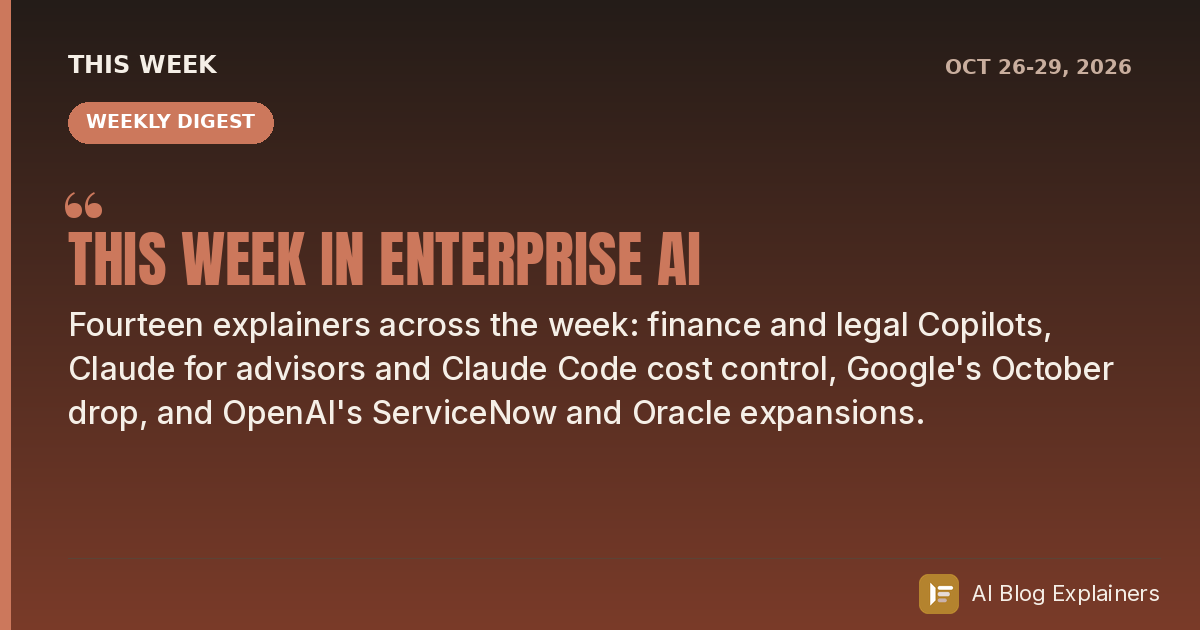
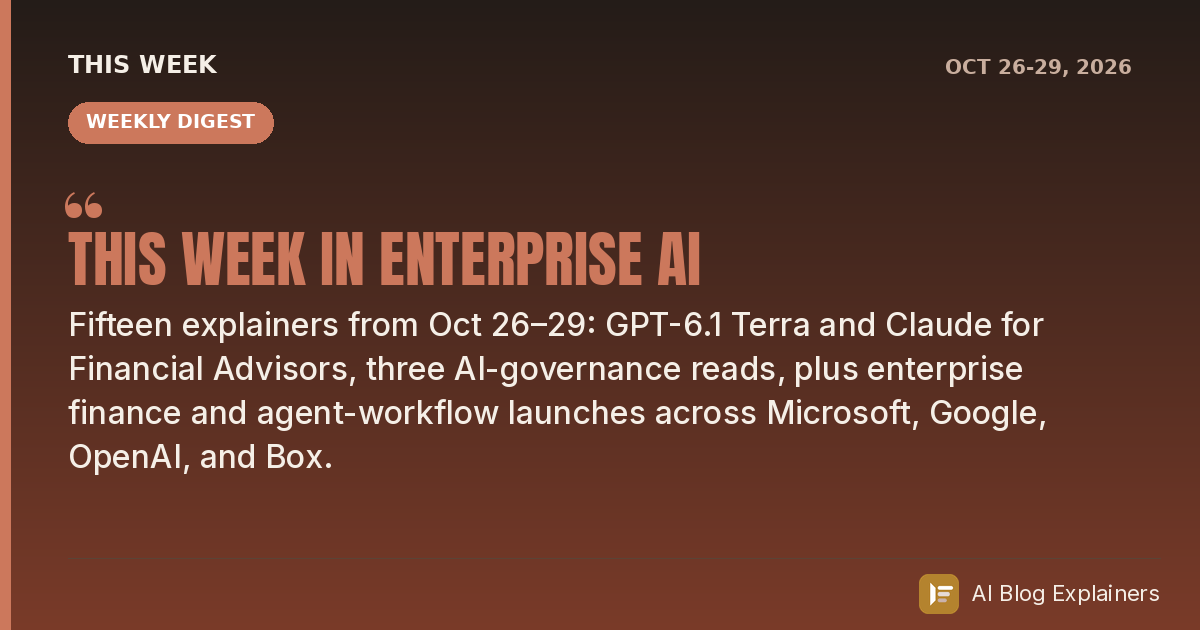
Add explainer + share card: When Attackers Adopt AI (Microsoft Security, AI adoption in threat tradecraft)

Changed region(s): [[0.0617, 0.4825, 0.925, 0.6032], [0.0617, 0.6333, 0.8633, 0.754]]

diff --git a/explainers/tracking-ai-adoption-in-north-korean-threat-actor-tradecraft.html b/explainers/tracking-ai-adoption-in-north-korean-threat-actor-tradecraft.html
@@ -1,0 +1,317 @@
+<!DOCTYPE html>
+<html lang="en">
+<head>
+<meta charset="UTF-8">
+<meta name="viewport" content="width=device-width, initial-scale=1.0">
+<link rel="icon" href="../favicon.svg" type="image/svg+xml">
+<meta property="og:type" content="article">
+<meta property="og:title" content="When Attackers Adopt AI: A Field Report on Nation-State Tradecraft">
+<meta property="og:description" content="Microsoft Threat Intelligence maps how North Korean actors use AI as a force multiplier — faster lures, fake hiring personas, assisted code — while operations stay human-directed.">
+<meta property="og:url" content="https://snigdhadasgupta.github.io/ai-blog-explainers/explainers/tracking-ai-adoption-in-north-korean-threat-actor-tradecraft.html">
+<meta property="og:image" content="https://snigdhadasgupta.github.io/ai-blog-explainers/share-cards/tracking-ai-adoption-in-north-korean-threat-actor-tradecraft.png">
+<meta property="og:image:secure_url" content="https://snigdhadasgupta.github.io/ai-blog-explainers/share-cards/tracking-ai-adoption-in-north-korean-threat-actor-tradecraft.png">
+<meta property="og:image:type" content="image/png">
+<meta property="og:image:width" content="1200">
+<meta property="og:image:height" content="630">
+<meta name="twitter:card" content="summary_large_image">
+<meta name="twitter:title" content="When Attackers Adopt AI: A Field Report on Nation-State Tradecraft">
+<meta name="twitter:image" content="https://snigdhadasgupta.github.io/ai-blog-explainers/share-cards/tracking-ai-adoption-in-north-korean-threat-actor-tradecraft.png">
+<title>AI Adoption in Attacker Tradecraft — Explainer</title>
+<style>
+  :root{
+    --clay:#CC785C;--clay-dark:#A8543C;--clay-deep:#7A3B29;--ink:#1F1B18;--slate:#3D3733;--stone:#6B6259;--cream:#F5F2EC;--paper:#FBFAF6;--sand:#EDE7DB;--line:#DED6C7;
+    --accent:#0E7490;--accent-deep:#0A5567;
+    --serif:'Georgia','Times New Roman',serif;--sans:-apple-system,'Segoe UI',Helvetica,Arial,sans-serif;--mono:'SFMono-Regular','Consolas','Menlo',monospace;
+  }
+  *{box-sizing:border-box;margin:0;padding:0;}
+  body{background:var(--cream);color:var(--ink);font-family:var(--sans);line-height:1.6;-webkit-font-smoothing:antialiased;}
+  .wrap{max-width:1080px;margin:0 auto;padding:0 24px;}
+  .topbar{border-top:5px solid var(--clay);background:var(--paper);border-bottom:1px solid var(--line);}
+  .topbar .wrap{display:flex;align-items:center;justify-content:space-between;padding:16px 24px;}
+  .brand{display:flex;align-items:center;gap:12px;font-weight:700;letter-spacing:.02em;}
+  .brand .dot{width:26px;height:26px;border-radius:6px;background:var(--clay);display:inline-flex;align-items:center;justify-content:center;color:#fff;font-family:var(--serif);font-size:16px;}
+  .srcbadge{font-size:11px;letter-spacing:.14em;text-transform:uppercase;font-weight:700;color:#fff;background:var(--accent);padding:5px 12px;border-radius:100px;}
+  .hero{background:linear-gradient(160deg,#161E22 0%,#0E4256 55%,var(--accent-deep) 100%);color:#EAF4F7;padding:46px 0 40px;position:relative;overflow:hidden;}
+  .herobg{position:absolute;top:0;right:-4%;height:100%;width:42%;pointer-events:none;opacity:.85;}
+  .herobg svg{width:100%;height:100%;display:block;}
+  .hnode{fill:var(--accent);}
+  .hero .wrap{max-width:900px;position:relative;z-index:1;}
+  .hero .tag{display:inline-block;font-size:12px;letter-spacing:.16em;text-transform:uppercase;color:#A9DBEA;border:1px solid rgba(169,219,234,.4);padding:5px 12px;border-radius:100px;margin-bottom:22px;}
+  .hero h1{font-family:var(--serif);font-size:clamp(30px,4.6vw,50px);line-height:1.09;font-weight:700;margin-bottom:18px;}
+  .hero p.lede{font-size:clamp(17px,2.2vw,21px);color:#DCEEF3;max-width:720px;}
+  .meta{display:flex;flex-wrap:wrap;gap:24px;margin-top:24px;padding-top:18px;border-top:1px solid rgba(234,244,247,.18);font-size:13px;}
+  .meta .m span{display:block;color:#8FCADC;letter-spacing:.12em;text-transform:uppercase;font-size:10.5px;margin-bottom:3px;}
+  .meta .m strong{font-weight:600;color:#EFF8FB;font-size:14px;}
+  section{padding:32px 0;border-bottom:1px solid var(--line);}
+  .eyebrow{font-size:12px;letter-spacing:.16em;text-transform:uppercase;color:var(--accent-deep);font-weight:700;margin-bottom:12px;display:flex;align-items:center;gap:10px;}
+  .eyebrow::before{content:"";width:26px;height:2px;background:var(--accent);display:inline-block;}
+  h2{font-family:var(--serif);font-size:clamp(24px,3.4vw,34px);line-height:1.15;margin-bottom:16px;color:var(--ink);}
+  h3{font-size:19px;margin-bottom:8px;color:var(--slate);}
+  p.body{font-size:16px;color:var(--slate);margin-bottom:12px;max-width:760px;}
+  .lead-quote{font-family:var(--serif);font-size:19px;line-height:1.4;color:var(--accent-deep);border-left:4px solid var(--accent);padding:4px 0 4px 20px;margin:18px 0;max-width:730px;}
+  .tldr{background:var(--paper);border:1px solid var(--line);border-radius:14px;padding:22px 26px;}
+  .tldr h2{font-size:20px;margin-bottom:14px;}
+  .tldr ul{list-style:none;counter-reset:tl;}
+  .tldr li{counter-increment:tl;position:relative;padding-left:46px;margin-bottom:11px;font-size:15.5px;color:var(--slate);}
+  .tldr li::before{content:counter(tl,decimal-leading-zero);position:absolute;left:0;top:-1px;font-family:var(--serif);font-size:19px;font-weight:700;color:var(--accent,var(--clay));}
+  .tldr li strong{color:var(--ink);font-weight:700;}
+  .figure{background:var(--paper);border:1px solid var(--line);border-radius:16px;padding:22px;margin:20px 0;}
+  .figure .cap{font-size:12.5px;color:var(--stone);text-transform:uppercase;letter-spacing:.1em;margin-bottom:20px;font-weight:700;}
+  .flow{display:grid;grid-template-columns:repeat(4,1fr);gap:6px;align-items:stretch;}
+  @media(max-width:820px){.flow{grid-template-columns:1fr 1fr;}}
+  .fstep{background:var(--cream);border:1px solid var(--line);border-radius:12px;padding:14px 10px;text-align:center;display:flex;flex-direction:column;align-items:center;}
+  .fstep .n{width:26px;height:26px;border-radius:50%;background:var(--accent);color:#fff;font-size:12px;font-weight:700;display:flex;align-items:center;justify-content:center;margin-bottom:8px;}
+  .fstep h4{font-size:12.5px;margin-bottom:4px;color:var(--ink);line-height:1.2;}
+  .fstep p{font-size:11px;color:var(--stone);line-height:1.35;}
+  .loopnote{text-align:center;margin-top:14px;font-size:13px;color:var(--accent-deep);font-weight:600;font-style:italic;}
+  .grid3{display:grid;grid-template-columns:repeat(3,1fr);gap:18px;margin-top:8px;}
+  @media(max-width:820px){.grid3{grid-template-columns:1fr;}}
+  .grid2{display:grid;grid-template-columns:repeat(2,1fr);gap:18px;margin-top:8px;}
+  @media(max-width:820px){.grid2{grid-template-columns:1fr;}}
+  .card{background:var(--paper);border:1px solid var(--line);border-radius:14px;padding:22px;}
+  .card h3{font-size:16px;margin-bottom:8px;}
+  .card p{font-size:13.5px;color:var(--stone);}
+  .card .pill{display:inline-block;font-size:10.5px;letter-spacing:.1em;text-transform:uppercase;font-weight:700;color:var(--accent-deep);background:#DBEEF4;border-radius:100px;padding:4px 11px;margin-bottom:12px;}
+  .scards{display:grid;grid-template-columns:repeat(2,1fr);gap:14px;}
+  @media(max-width:820px){.scards{grid-template-columns:1fr;}}
+  .scard{background:var(--cream);border:1px solid var(--line);border-radius:14px;padding:18px 20px;position:relative;}
+  .scard .stg{font-family:var(--serif);font-size:13px;font-weight:700;letter-spacing:.06em;text-transform:uppercase;color:var(--accent-deep);margin-bottom:4px;}
+  .scard .big{font-family:var(--serif);font-size:30px;font-weight:700;color:var(--ink);line-height:1;margin-bottom:10px;}
+  .scard .who{font-size:13px;color:var(--slate);}
+  .scard .who b{color:var(--ink);}
+  .callout{background:linear-gradient(135deg,var(--ink),var(--accent-deep));color:#EAF4F7;border-radius:16px;padding:26px 28px;display:flex;flex-wrap:wrap;align-items:center;justify-content:space-between;gap:20px;}
+  .callout h2{color:#fff;margin-bottom:6px;}
+  .callout p{color:#D6EAF0;font-size:15px;max-width:560px;}
+  .btn{background:var(--accent);color:#fff;text-decoration:none;padding:13px 24px;border-radius:100px;font-weight:700;font-size:14.5px;white-space:nowrap;}
+  footer{padding:30px 0 46px;color:var(--stone);font-size:12.5px;}
+  footer a{color:var(--accent-deep);}
+  .src{margin-top:8px;}
+
+  /* --- Depth toggle + So-what --- */
+  .depthbar{position:sticky;top:0;z-index:50;background:var(--paper);border-bottom:1px solid var(--line);box-shadow:0 2px 10px -8px rgba(0,0,0,.35);}
+  .depthbar .wrap{display:flex;align-items:center;gap:14px;padding:12px 24px;flex-wrap:wrap;}
+  .depthbar .lbl{font-size:11px;letter-spacing:.14em;text-transform:uppercase;font-weight:700;color:var(--stone);}
+  .depthset{display:inline-flex;background:var(--sand);border-radius:100px;padding:4px;gap:2px;}
+  .depthset button{border:none;cursor:pointer;font-family:var(--sans);font-size:13px;font-weight:700;color:var(--slate);background:transparent;padding:7px 16px;border-radius:100px;transition:all .15s;}
+  .depthset button:hover{color:var(--ink);}
+  .depthset button.on{background:var(--accent);color:#fff;box-shadow:0 3px 10px -5px var(--accent-deep);}
+  .depthhint{font-size:12.5px;color:var(--stone);margin-left:auto;}
+  @media(max-width:640px){.depthhint{display:none;}.depthbar .wrap{gap:10px;padding:10px 18px;}.depthset button{padding:7px 13px;font-size:12.5px;}}
+  section[data-depth]{transition:opacity .2s;}
+  .sowhat{background:linear-gradient(135deg,#FFF7ED,#FDECDD);border:1px solid var(--clay);border-left:5px solid var(--clay);border-radius:14px;padding:22px 26px;margin:26px 0 4px;}
+  .sowhat .kick{font-size:11px;letter-spacing:.14em;text-transform:uppercase;font-weight:800;color:var(--clay-deep);display:flex;align-items:center;gap:8px;margin-bottom:9px;}
+  .sowhat .kick::before{content:"\2192";font-size:15px;}
+  .sowhat p{font-size:16px;line-height:1.55;color:var(--slate);margin:0;max-width:820px;}
+  .sowhat p strong{color:var(--ink);}
+</style>
+</head>
+<body>
+
+<div class="topbar">
+  <div class="wrap">
+    <a class="brand" href="../index.html" style="text-decoration:none;color:inherit;"><span class="dot">&#10039;</span> AI Blog Explainer</a>
+    <div class="srcbadge">Microsoft Security</div>
+  </div>
+</div>
+
+<header class="hero">
+  <div class="herobg" aria-hidden="true">
+    <svg viewBox="0 0 560 460" preserveAspectRatio="xMaxYMid slice"><polyline points="236,336 316,276 382,304 476,152" fill="none" stroke="#fff" stroke-opacity=".32" stroke-width="4" stroke-linecap="round" stroke-linejoin="round"/><g stroke="#fff" stroke-opacity=".32" stroke-width="4" stroke-linecap="round"><line x1="476" y1="152" x2="440" y2="158"/><line x1="476" y1="152" x2="482" y2="188"/></g><g fill="#fff" fill-opacity=".6"><circle cx="236" cy="336" r="7"/><circle cx="316" cy="276" r="7"/><circle cx="382" cy="304" r="7"/></g><circle cx="476" cy="152" r="18" class="hnode"/><circle cx="476" cy="152" r="18" fill="none" stroke="#fff" stroke-opacity=".5" stroke-width="2"/></svg>
+  </div>
+  <div class="wrap">
+    <span class="tag">Microsoft Security &middot; AI Governance &middot; October 29, 2026</span>
+    <h1>When attackers adopt AI</h1>
+    <p class="lede">Microsoft Threat Intelligence tracked how North Korean threat actors are folding AI into their playbooks. The finding that matters for defenders: AI is a <em>force multiplier</em> for old tradecraft &mdash; faster lures, more convincing fake hires, assisted code &mdash; and the operations remain human-directed, not autonomous.</p>
+    <div class="meta">
+      <div class="m"><span>Source</span><strong>Microsoft Security</strong></div>
+      <div class="m"><span>Author</span><strong>Microsoft Threat Intelligence</strong></div>
+      <div class="m"><span>Theme</span><strong>Responsible AI &middot; Threat landscape</strong></div>
+      <div class="m"><span>Reading time</span><strong>6 min</strong></div>
+    </div>
+  </div>
+</header>
+
+<div class="depthbar">
+  <div class="wrap">
+    <span class="lbl">Read at your level</span>
+    <div class="depthset" id="aibe-depth">
+      <button data-lvl="tldr">Summary</button>
+      <button data-lvl="manager">Manager</button>
+      <button data-lvl="tech">Technical</button>
+    </div>
+    <span class="depthhint" id="aibe-depthhint"></span>
+  </div>
+</div>
+
+<section data-depth="tldr">
+  <div class="wrap">
+    <div class="tldr" data-tier-anchor>
+      <h2>The idea in five lines</h2>
+      <ul>
+        <li><strong>AI is a force multiplier</strong> &mdash; Microsoft Threat Intelligence finds state-backed actors using AI to speed and scale playbooks they already ran, not to invent new attacks; the operations &ldquo;remain human-directed.&rdquo;</li>
+        <li><strong>Hiring is the attack surface</strong> &mdash; AI-assisted r&eacute;sum&eacute;s, recruiter lures, interview answers, and even altered profile photos, video, and voice are used to plant fake remote workers and phish targets.</li>
+        <li><strong>A maturity map, not a monolith</strong> &mdash; MSTIC rates actors across four stages, from Emerging to Operationalized, and judges overall AI adoption &ldquo;high,&rdquo; with several groups already operationalized.</li>
+        <li><strong>Speed is the tell</strong> &mdash; 100-plus lure files with dozens generated within minutes, and three front companies stood up in a single week; volume and velocity now hint at AI output.</li>
+        <li><strong>Defense is mostly fundamentals</strong> &mdash; identity verification in hiring, phishing protections, EDR in block mode, and attack-surface-reduction rules blunt these campaigns in their early stages.</li>
+      </ul>
+    </div>
+    <div class="sowhat">
+      <div class="kick">So what for you</div>
+      <p>If your organization hires remote talent &mdash; or you personally field recruiter outreach &mdash; <strong>treat unusually polished, fast-moving candidates and job offers with healthy skepticism.</strong> Verify identities on camera and through non-VoIP contact details before granting any access, and remember that a flawless r&eacute;sum&eacute; or cover note is now cheap to generate.</p>
+    </div>
+  </div>
+</section>
+
+<section data-depth="manager">
+  <div class="wrap">
+    <div class="eyebrow">The headline finding</div>
+    <h2>A force multiplier, not an autopilot</h2>
+    <p class="body">Microsoft Threat Intelligence (MSTIC) assessed how North Korean groups are using commercial and open-source AI across their operations. The pattern is consistent: AI compresses the time and effort behind workflows the actors already relied on &mdash; reconnaissance, social engineering, malware delivery, and the abuse of legitimate tools &mdash; rather than replacing human operators. Microsoft rates overall adoption as high, but is careful about what that means.</p>
+    <p class="lead-quote">AI-enabled operations remain human-directed and have not become fully autonomous.</p>
+    <p class="body">That distinction is the practical one for defenders. The goals have not changed &mdash; revenue generation, strategic intelligence, and at times disruptive aims. What has changed is throughput: a small team can now produce more lures, maintain more fake identities, and move from first contact to compromise faster than before.</p>
+  </div>
+</section>
+
+<section data-depth="manager">
+  <div class="wrap">
+    <div class="eyebrow">Where AI shows up</div>
+    <h2>The same campaign, run faster</h2>
+    <div class="figure">
+      <div class="cap">Figure 1 &middot; AI compresses each stage of an existing playbook</div>
+      <div class="flow">
+        <div class="fstep"><div class="n">1</div><h4>Recon &amp; targeting</h4><p>Spoofed companies and recruiter personas spun up quickly; one group stood up three front companies in a single week.</p></div>
+        <div class="fstep"><div class="n">2</div><h4>Social engineering</h4><p>Employment- and interview-themed lures, translated and tailored at scale, plus altered profile images, video, and voice.</p></div>
+        <div class="fstep"><div class="n">3</div><h4>Development &amp; tooling</h4><p>AI-assisted coding platforms help generate, debug, and refactor; some actors have begun using an open-source agentic pen-test framework.</p></div>
+        <div class="fstep"><div class="n">4</div><h4>Scaling &amp; personas</h4><p>Fake remote-worker identities kept consistent across many accounts; repetitive post-compromise tasks automated.</p></div>
+      </div>
+      <div class="loopnote">&#8635; Each stage is a known tactic &mdash; AI mostly adds speed, volume, and polish, not novelty.</div>
+    </div>
+    <p class="body">A vivid example: MSTIC attributed more than 100 PDF lure files to one actor over August and September 2026, with metadata showing dozens created within minutes of each other &mdash; a cadence Microsoft calls &ldquo;highly likely&rdquo; the output of an AI platform. In another thread, a group used recruiter cover for an entirely spoofed AI-focused company to run a tightly scheduled, job-themed targeting campaign.</p>
+  </div>
+</section>
+
+<section data-depth="tech">
+  <div class="wrap">
+    <div class="eyebrow">How Microsoft frames it</div>
+    <h2>A maturity map for adversary AI</h2>
+    <p class="body">Rather than a single verdict, MSTIC places each tracked group on a four-stage adoption curve. It is a useful lens: it separates experimentation from operations, and it tells defenders which actors have made AI a durable part of how they work.</p>
+    <div class="figure">
+      <div class="cap">Figure 2 &middot; Adoption stages, with where tracked groups sit</div>
+      <div class="scards">
+        <div class="scard"><div class="stg">Stage 1 &middot; Emerging</div><div class="big">Testing</div><div class="who">Early, exploratory use. <b>No groups</b> assessed at this stage in the report.</div></div>
+        <div class="scard"><div class="stg">Stage 2 &middot; Expanding</div><div class="big">Trying</div><div class="who">Use broadening across tasks. Includes <b>one tracked group</b> showing possible synthetic voice and video.</div></div>
+        <div class="scard"><div class="stg">Stage 3 &middot; Accelerating</div><div class="big">Scaling</div><div class="who">AI embedded in multiple workflows. The <b>largest cluster</b> of tracked groups sits here.</div></div>
+        <div class="scard"><div class="stg">Stage 4 &middot; Operationalized</div><div class="big">Default</div><div class="who">AI is a standing part of operations &mdash; fake-worker pipelines, repo trojanizing, recruiter fronts. <b>Several groups</b> have reached this stage.</div></div>
+      </div>
+      <div class="loopnote">&#8635; The curve is a direction of travel: groups move rightward as AI stops being an experiment and becomes infrastructure.</div>
+    </div>
+    <p class="body">Microsoft notes that some actors have, since late October 2026, begun using an open-source agentic AI penetration-testing framework &mdash; a sign that off-the-shelf agentic tooling is entering the mix alongside general-purpose assistants.</p>
+  </div>
+</section>
+
+<section data-depth="tech">
+  <div class="wrap">
+    <div class="eyebrow">What defenders can actually see</div>
+    <h2>Signals, and the red flags that still work</h2>
+    <div class="grid2">
+      <div class="card"><span class="pill">Signal</span><h3>Volume and velocity</h3><p>When dozens of near-identical lures, personas, or documents appear within minutes, the cadence itself is a tell. Human teams rarely produce at that rate; sudden uniformity and speed are worth flagging in content and account-creation telemetry.</p></div>
+      <div class="card"><span class="pill">Red flag</span><h3>The fake remote hire</h3><p>Microsoft's hiring guidance is unglamorous and effective: verify r&eacute;sum&eacute;s and references by phone or video, confirm an on-camera presence, treat persistent video or mic &ldquo;problems&rdquo; as suspicious, check for duplicate accounts or shared phone numbers, and confirm a real digital footprint (a non-VoIP number, a residential address).</p></div>
+    </div>
+    <p class="body" style="margin-top:22px;">On the technical side, Microsoft points to layered controls it says can stop these campaigns early: endpoint detection in block mode with automated investigation and remediation, network protection, and attack-surface-reduction rules that block executable content from email and webmail and block obfuscated scripts. Microsoft states that customers already running these rules could mitigate several of the observed attacks in their early stages.</p>
+  </div>
+</section>
+
+<section style="border-bottom:none;" data-depth="manager">
+  <div class="wrap">
+    <div class="callout">
+      <div>
+        <h2>What to do about it</h2>
+        <p>Tighten identity verification in hiring and vendor onboarding, turn on phishing protections (Safe Links, Safe Attachments, zero-hour auto purge) and user education, and run endpoint protection in block mode with attack-surface-reduction rules. For the agents your own teams are building, govern them centrally &mdash; Microsoft positions its Security Dashboard for AI and Agent 365 as the control plane &mdash; so defenders using AI can keep pace with attackers using it.</p>
+      </div>
+      <a class="btn" href="https://www.microsoft.com/en-us/security/blog/2026/10/29/tracking-ai-adoption-in-north-korean-threat-actor-tradecraft/">Read the post &rarr;</a>
+    </div>
+  </div>
+</section>
+
+<nav id="aibe-nav" style="max-width:1080px;margin:0 auto;padding:22px 24px;display:flex;align-items:center;justify-content:space-between;gap:14px;border-top:1px solid #DED6C7;flex-wrap:wrap;font-family:-apple-system,'Segoe UI',Helvetica,Arial,sans-serif;">
+  <a href="../index.html" style="font-size:13px;font-weight:700;color:#A8543C;text-decoration:none;">&larr; All explainers</a>
+  <div style="display:flex;gap:10px;">
+    <a id="aibe-prev" href="#" style="display:none;font-size:13px;font-weight:700;color:#A8543C;text-decoration:none;border:1px solid #DED6C7;border-radius:100px;padding:8px 15px;">&lsaquo; Prev</a>
+    <a id="aibe-next" href="#" style="display:none;font-size:13px;font-weight:700;color:#A8543C;text-decoration:none;border:1px solid #DED6C7;border-radius:100px;padding:8px 15px;">Next &rsaquo;</a>
+  </div>
+</nav>
+<script>
+(function(){
+  fetch("../feed.xml").then(function(r){return r.text();}).then(function(t){
+    var doc=new DOMParser().parseFromString(t,"application/xml");
+    var items=[].slice.call(doc.querySelectorAll("item")).map(function(it){var l=it.querySelector("link");return l?l.textContent.trim():"";}).filter(Boolean);
+    var mine=location.href.split("#")[0].split("?")[0].split("/").pop();
+    var i=-1; for(var k=0;k<items.length;k++){ if(items[k].split("/").pop()===mine){ i=k; break; } }
+    if(i<0) return;
+    var newer=items[i-1], older=items[i+1];
+    var pe=document.getElementById("aibe-prev"), ne=document.getElementById("aibe-next");
+    if(newer){ pe.href=newer; pe.style.display=""; }
+    if(older){ ne.href=older; ne.style.display=""; }
+  }).catch(function(){});
+})();
+</script>
+
+<footer>
+  <div class="wrap">
+    <p>Explainer artifact generated from the Microsoft Security blog &middot; AI Blog Explainers house style (Claude clay palette, Microsoft Security accent).</p>
+    <p class="src">Source: <a href="https://www.microsoft.com/en-us/security/blog/2026/10/29/tracking-ai-adoption-in-north-korean-threat-actor-tradecraft/">Tracking AI adoption in North Korean threat actor tradecraft</a> &mdash; microsoft.com/security/blog, October 29, 2026.</p>
+  </div>
+</footer>
+
+<div id="aibe-share" style="position:fixed;right:16px;bottom:16px;display:flex;flex-direction:column;gap:8px;z-index:9999;font-family:-apple-system,'Segoe UI',Helvetica,Arial,sans-serif;">
+  <a href="https://www.microsoft.com/en-us/security/blog/2026/10/29/tracking-ai-adoption-in-north-korean-threat-actor-tradecraft/" target="_blank" rel="noopener" title="Read the original article"
+     style="background:#7A3B29;color:#fff;text-decoration:none;font-size:12px;font-weight:700;padding:9px 13px;border-radius:100px;box-shadow:0 6px 18px -8px rgba(0,0,0,.5);text-align:center;">Read original &#8599;</a>
+  <button onclick="aibeCopy()" title="Copy link"
+     style="background:#CC785C;color:#fff;border:none;cursor:pointer;font-size:12px;font-weight:700;padding:9px 13px;border-radius:100px;box-shadow:0 6px 18px -8px rgba(0,0,0,.5);">Copy link</button>
+  <div style="display:flex;gap:8px;">
+    <a id="aibe-li" target="_blank" rel="noopener" title="Share on LinkedIn"
+       style="flex:1;background:#0A66C2;color:#fff;text-decoration:none;font-size:12px;font-weight:700;padding:9px 0;border-radius:100px;text-align:center;box-shadow:0 6px 18px -8px rgba(0,0,0,.5);">in</a>
+    <a id="aibe-x" target="_blank" rel="noopener" title="Share on X"
+       style="flex:1;background:#1F1B18;color:#fff;text-decoration:none;font-size:12px;font-weight:700;padding:9px 0;border-radius:100px;text-align:center;box-shadow:0 6px 18px -8px rgba(0,0,0,.5);">X</a>
+  </div>
+</div>
+<script>
+(function(){
+  var u=encodeURIComponent(location.href), t=encodeURIComponent(document.title.replace(" — Explainer",""));
+  document.getElementById("aibe-li").href="https://www.linkedin.com/sharing/share-offsite/?url="+u;
+  document.getElementById("aibe-x").href="https://twitter.com/intent/tweet?url="+u+"&text="+t;
+})();
+function aibeCopy(){
+  navigator.clipboard.writeText(location.href).then(function(){
+    var b=event.target; var o=b.textContent; b.textContent="Copied!"; setTimeout(function(){b.textContent=o;},1400);
+  });
+}
+</script>
+<script>
+(function(){
+  var ORDER={tldr:0,manager:1,tech:2};
+  var HINT={
+    tldr:"Just the five-line summary + the takeaway.",
+    manager:"Summary, why it matters, and what to do — no deep internals.",
+    tech:"Everything, including the maturity map and defender signals."
+  };
+  var btns=[].slice.call(document.querySelectorAll('#aibe-depth button'));
+  var hintEl=document.getElementById('aibe-depthhint');
+  function apply(lvl){
+    var max=ORDER[lvl]; if(max===undefined){lvl='manager';max=1;}
+    document.querySelectorAll('section[data-depth]').forEach(function(sec){
+      var t=ORDER[sec.getAttribute('data-depth')];
+      sec.style.display=(t<=max)?'':'none';
+    });
+    btns.forEach(function(b){b.classList.toggle('on',b.getAttribute('data-lvl')===lvl);});
+    if(hintEl) hintEl.textContent=HINT[lvl]||'';
+    try{localStorage.setItem('aibe-depth',lvl);}catch(e){}
+  }
+  btns.forEach(function(b){b.addEventListener('click',function(){apply(b.getAttribute('data-lvl'));});});
+  var saved='manager';
+  try{var v=localStorage.getItem('aibe-depth'); if(v&&ORDER[v]!==undefined)saved=v;}catch(e){}
+  apply(saved);
+})();
+</script>
+</body>
+</html>

diff --git a/this-week.html b/this-week.html
@@ -6,7 +6,7 @@
 <link rel="icon" href="favicon.svg" type="image/svg+xml">
 <meta property="og:type" content="website">
 <meta property="og:title" content="This Week in Enterprise AI">
-<meta property="og:description" content="14 explainers from 6 sources this week — the enterprise, agentic-AI, and governance moves worth your attention, grouped by theme.">
+<meta property="og:description" content="15 explainers from 6 sources this week — the enterprise, agentic-AI, and governance moves worth your attention, grouped by theme.">
 <meta property="og:url" content="https://snigdhadasgupta.github.io/ai-blog-explainers/this-week.html">
 <meta property="og:image" content="https://snigdhadasgupta.github.io/ai-blog-explainers/share-cards/this-week.png">
 <meta property="og:image:secure_url" content="https://snigdhadasgupta.github.io/ai-blog-explainers/share-cards/this-week.png">
@@ -72,7 +72,7 @@
   <div class="wrap">
     <span class="tag">This week &middot; Oct 26 – Oct 29, 2026</span>
     <h1>This Week in Enterprise AI</h1>
-    <p>14 explainers from 6 sources this week — the enterprise, agentic-AI, and governance moves worth your attention, grouped by theme.</p>
+    <p>15 explainers from 6 sources this week — the enterprise, agentic-AI, and governance moves worth your attention, grouped by theme.</p>
   </div>
 </header>
 <main><div class="wrap">
@@ -88,8 +88,14 @@
       </a></div>
     </div>
     <div class="wk-theme">
-      <div class="wk-eyebrow"><span></span>AI governance & security <em>2</em></div>
+      <div class="wk-eyebrow"><span></span>AI governance & security <em>3</em></div>
       <div class="wk-grid">
+      <a class="wk-card" href="explainers/tracking-ai-adoption-in-north-korean-threat-actor-tradecraft.html">
+        <div class="wk-top"><span class="wk-badge" style="background:#0E7490">Microsoft Security</span><span class="wk-cat">AI Governance</span></div>
+        <h3>When Attackers Adopt AI</h3>
+        <p>Microsoft Threat Intelligence maps how North Korean groups fold AI into their playbooks — faster recruiter lures and fake-hire personas, altered voice and video, and AI-assisted code — while operations stay human-directed, not autonomous. It rates actors on a four-stage adoption curve and argues the best defenses are fundamentals: identity verification in hiring, phishing protections, and endpoint block-mode with attack-surface-reduction rules.</p>
+        <span class="wk-rt">6 min &middot; Read explainer &rarr;</span>
+      </a>
       <a class="wk-card" href="explainers/the-cisos-evolving-role-protecting-and-defending-in-the-agentic-era.html">
         <div class="wk-top"><span class="wk-badge" style="background:#0E7490">Microsoft Security</span><span class="wk-cat">AI Governance</span></div>
         <h3>The CISO's Two Jobs in the Agentic Era</h3>

diff --git a/index.html b/index.html
@@ -297,6 +297,7 @@ const SOURCE_COLORS = {
 const NEW_DAYS = 3;
 
 const POSTS = [
+    {slug:"tracking-ai-adoption-in-north-korean-threat-actor-tradecraft",title:"When Attackers Adopt AI",date:"2026-10-29",source:"Microsoft Security",category:"AI Governance",readingTime:"6 min",summary:"Microsoft Threat Intelligence maps how North Korean groups fold AI into their playbooks — faster recruiter lures and fake-hire personas, altered voice and video, and AI-assisted code — while operations stay human-directed, not autonomous. It rates actors on a four-stage adoption curve and argues the best defenses are fundamentals: identity verification in hiring, phishing protections, and endpoint block-mode with attack-surface-reduction rules."},
     {slug:"microsoft-copilot-for-finance-purpose-built-for-the-way-finance-teams-work",title:"Microsoft Copilot for Finance",date:"2026-10-29",source:"Microsoft 365",category:"Product",readingTime:"7 min",summary:"Microsoft extends finance AI beyond Excel with 25+ skills and partner plugins across accounting, capital markets, and corporate finance, delivered in Copilot and Cowork. Excel is embedded in the Copilot app, Work IQ grounds it in the close calendar and deal context, and an optional audit trail records what Copilot changed and why."},
     {slug:"october-workspace-drops-edit-markdown-talk-to-gmail-and-docs-translate-meetings-and-more",title:"October Workspace Drops",date:"2026-10-29",source:"Google Workspace",category:"Product",readingTime:"5 min",summary:"Google Workspace's October update adds native Markdown editing in Docs and Drive, conversational voice in Gmail and Docs grounded in your email and files, real-time Meet translation across 63 languages via Gemini 3.5 Live Translate, automatic meeting notes and follow-ups, and Microsoft 365 migration it claims is up to 5x faster."},
     {slug:"openai-servicenow-partnership-expansion",title:"OpenAI + ServiceNow, Expanded",date:"2026-10-28",source:"OpenAI",category:"Agents",readingTime:"6 min",summary:"OpenAI and ServiceNow widen their partnership: a ServiceNow integration brings records and workflow actions into ChatGPT under Action Fabric permissions, OpenAI models move into ServiceNow development, security, and voice, and every ServiceNow employee gets ChatGPT Work and Codex. The deeper capabilities are phased across 2027."},

diff --git a/share-posts.js b/share-posts.js
@@ -1,5 +1,13 @@
 window.__POSTS__ = [
   {
+    "slug": "tracking-ai-adoption-in-north-korean-threat-actor-tradecraft",
+    "source": "Microsoft Security",
+    "category": "AI Governance",
+    "date": "2026-10-29",
+    "hook": "Old playbook, new speed.",
+    "body": "Microsoft Threat Intelligence maps how state-backed actors fold AI into recruiting lures, fake hires, and code — faster and at scale, but still human-directed. Defense is mostly fundamentals."
+  },
+  {
     "slug": "microsoft-copilot-for-finance-purpose-built-for-the-way-finance-teams-work",
     "source": "Microsoft 365",
     "category": "Product",
